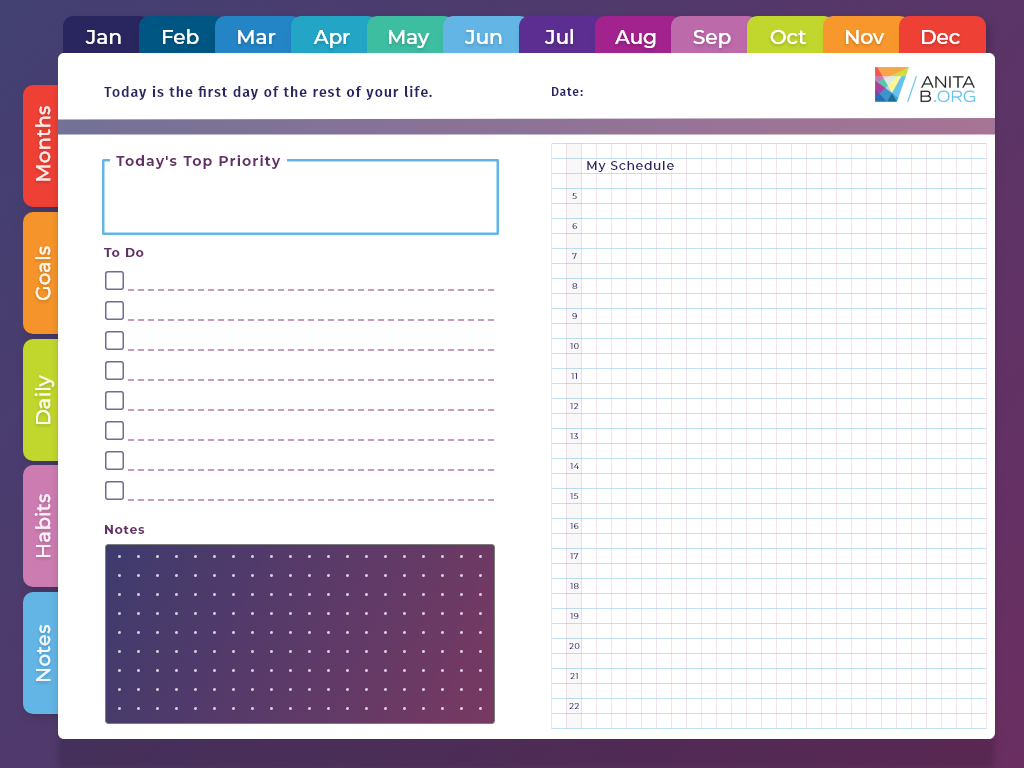
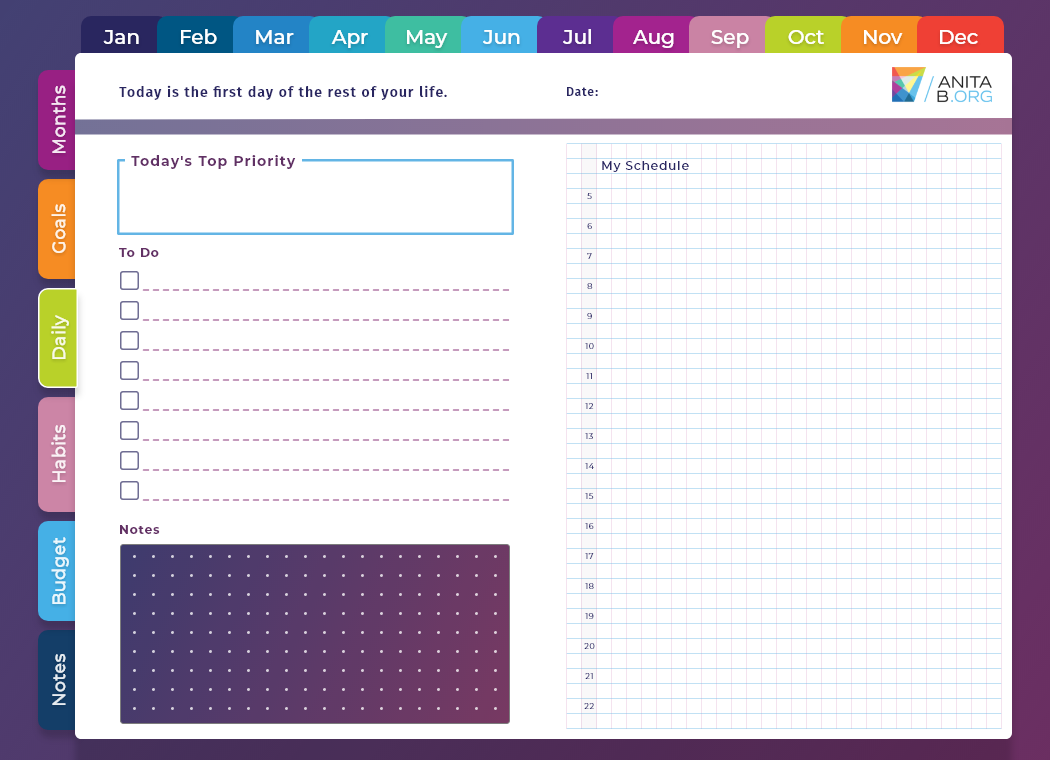
updated images and link

Changed region(s): [[0.0, 0.0, 0.9688, 0.9987], [0.5312, 0.0908, 0.5625, 0.1211]]

diff --git a/index.html b/index.html
@@ -14,7 +14,7 @@
         <div class="container spacing">
             <h1 class="primary-title">Grace Hopper Digital Planner</h1>
             <p class="subtitle">A daily digital planner brought to you by AnitaB.org and designed and created by GHC Scholar, Jocelyn Irle.</p>
-            <a href="#" target="_blank" class="btn">Download</a>
+            <a href="https://drive.google.com/file/d/174bHmwEFD4tvIN5iO5jquorR8cLw2kWg/view?usp=sharing" target="_blank" class="btn">Download</a>
         </div>
     </header>
 
@@ -48,7 +48,7 @@
                 <article class="product spacing"> 
                     <h3 class="product_title">Monthly Spread</h3>
                     <!--<p class="product_description">description goes here</p>-->
-                    <img src="images/Grace Hopper Planner - Monthly Spread - Oct@2x.png" alt="" class="product_image">
+                    <img src="images/Grace Hopper Planner - Monthly Spread - Sep@2x.png" alt="" class="product_image">
                 </article>
 
                 <article class="product spacing">
@@ -64,11 +64,17 @@
                 </article>
 
                 <article class="product spacing">
+                    <h3 class="product_title">Budget</h3>
+                    <!--<p class="product_description">description goes here</p>-->
+                    <img src="images/Grace Hopper Planner - Budget@2x.png" alt="" class="product_image">
+                </article>
+
+                <article class="product spacing">
                     <h3 class="product_title">Habit Tracker</h3>
                     <!--<p class="product_description">description goes here</p>-->
-                    <img src="images/Grace Hopper Planner - Habits Tracker@2x.png"" alt="" class="product_image">
+                    <img src="images/Grace Hopper Planner - Habits Tracker@2x.png" alt="" class="product_image">
                 </article>
-                <P class="featured_details">And more!</P>
+
             </div>
         </section>
 
@@ -83,7 +89,7 @@
                         I recommend <a href="https://www.gingerlabs.com/" target="_blank" >Notability</a> or <a href="https://www.goodnotes.com/" target="_blank">GoodNotes</a>, 
                         and for Android, I recommend <a href="https://www.xodo.com/" target="_blank">Xodo</a>.  
                         <br><br>Once you have a PDF annotation app installed, click the download link using your tablet or device. </p>
-                        <a href="#" target="_blank" class="btn">Download</a>
+                        <a href="https://drive.google.com/file/d/174bHmwEFD4tvIN5iO5jquorR8cLw2kWg/view?usp=sharing" target="_blank" class="btn">Download</a>
                 </article>
 
                 <article class="product spacing"> 

diff --git a/styles.css b/styles.css
@@ -83,7 +83,7 @@ section {
 .subtitle {
     font-size: 1.3rem;
     text-transform: none;
-    font-family: 'Source Serif Pro', serif;
+    font-family: 'Noto Sans JP', sans-serif;
 }
 
 .section-title {
